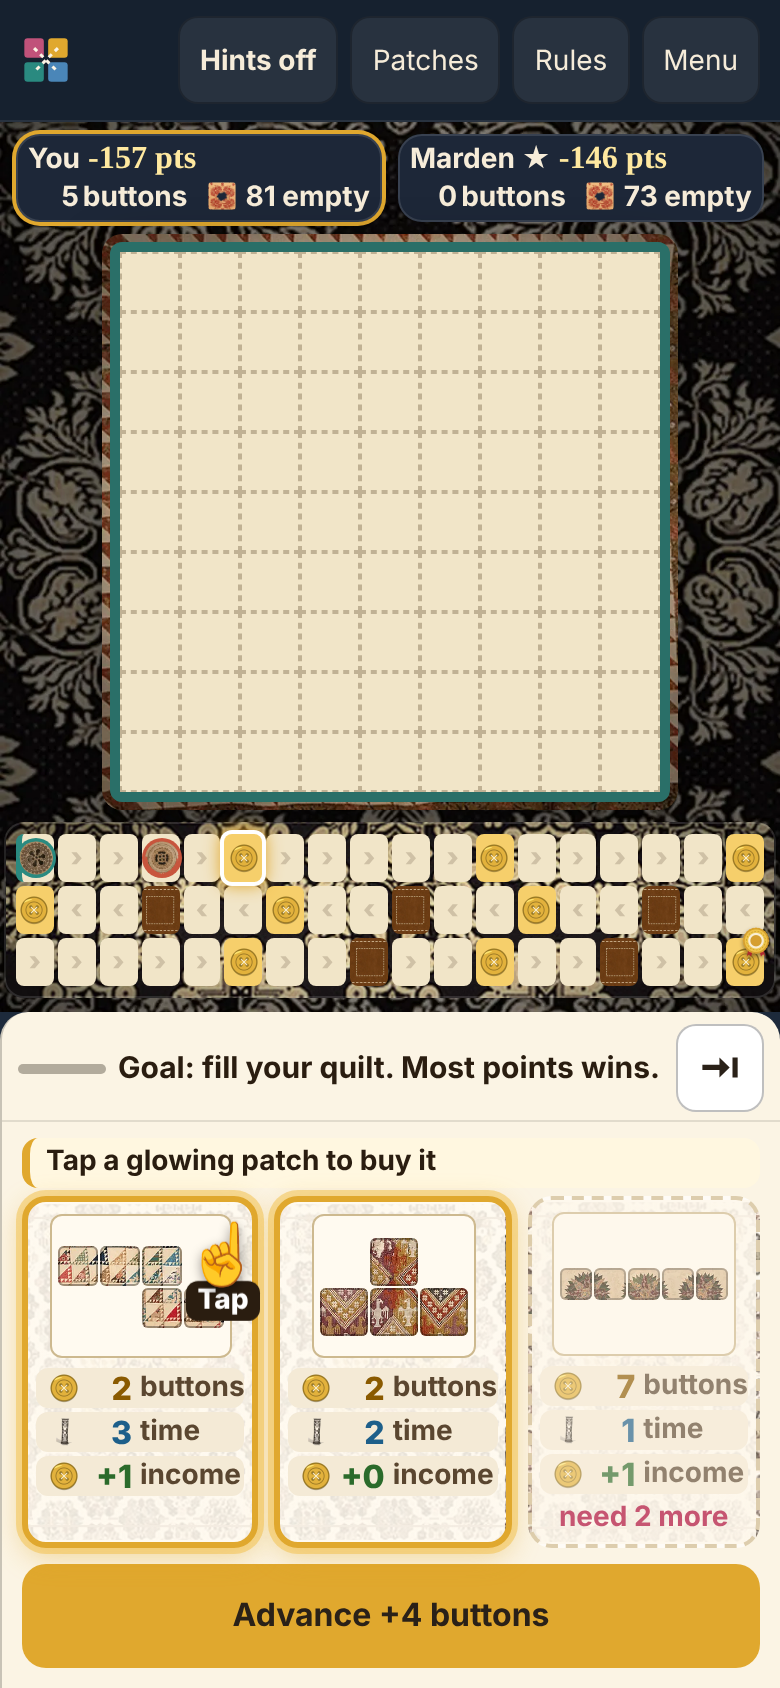
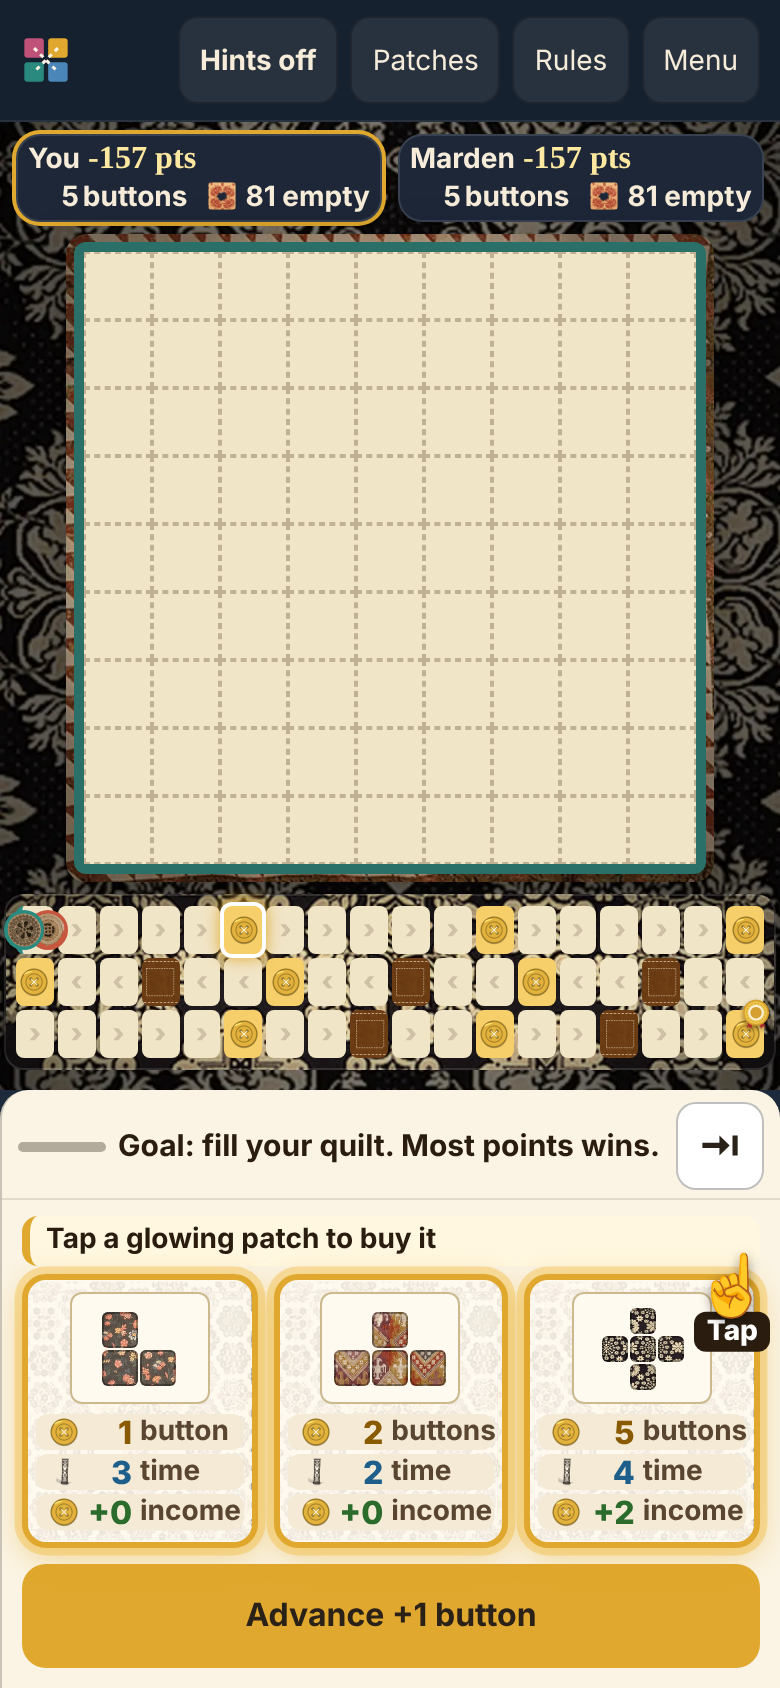
Stitchwise: keep the quilt full size with the bigger patches
Piece box 56px tall (long side still 64px+), the routine prompt hides after
turn 1 on phones, the first-turn hand sits on the card corner where it no
longer covers text.

diff --git a/games-src/stitchwise/src/ui1.js b/games-src/stitchwise/src/ui1.js
@@ -151,13 +151,13 @@ function renderDock() {
     var can = hum && !G.pend && aff && fits, val = hintsOn() && hum && !G.pend && aff && fits ? patchValue(s, pid).net : null;
     var b = h('button.offer' + (UI.sel === k ? '.sel' : '') + (hum && !G.pend && (!aff || !fits) ? '.no.cant' : '') + (!hum ? '.no' : '') + (can && UI.sel < 0 ? '.can' : '') + (UI.sel >= 0 && UI.sel !== k ? '.dim' : ''), { type: 'button', 'data-a': 'offer', 'data-k': k, 'data-why': why, 'aria-label': p.name + ': cost ' + p.cost + ' buttons, time ' + p.time + ', earns ' + p.inc + ' per button spot, ' + p.n + ' squares' });
     if (artHas('ui-offer-card')) { artBg(b, 'ui-offer-card'); b.style.backgroundImage = 'linear-gradient(#fffaf0e6,#fffaf0e6),' + b.style.backgroundImage; b.style.backgroundSize = 'cover'; }
-    if (val != null) b.dataset.val = val; b.appendChild(h('span.onm', p.name)); var bb = bbox(p.cells), sm = document.documentElement.classList.contains('sm'), wd = innerWidth >= 1024; var ph = !sm && !wd && !UI.wide; /* W484: phone portrait: big pieces (box ~100x72, cells up to 26px, tap target is the whole card) */ b.appendChild(patchShape(pid, '', ph ? Math.max(13, Math.min(26, Math.floor(100 / (bb[0] + 1)), Math.floor(72 / (bb[1] + 1)))) : Math.max(9, Math.min(sm ? 12 : wd ? 30 : 18, Math.floor((sm ? 60 : wd ? 170 : 96) / bb[0]), Math.floor((sm ? 44 : wd ? 96 : 40) / bb[1]))))); b.appendChild(h('div.meta.ofx', { html: offerFacts(p) })); box.appendChild(b);
+    if (val != null) b.dataset.val = val; b.appendChild(h('span.onm', p.name)); var bb = bbox(p.cells), sm = document.documentElement.classList.contains('sm'), wd = innerWidth >= 1024; var ph = !sm && !wd && !UI.wide; /* W484: phone portrait: big pieces (box ~100x72, cells up to 26px, tap target is the whole card) */ b.appendChild(patchShape(pid, '', ph ? Math.max(13, Math.min(26, Math.floor(100 / (bb[0] + 1)), Math.floor(54 / (bb[1] + 1)))) : Math.max(9, Math.min(sm ? 12 : wd ? 30 : 18, Math.floor((sm ? 60 : wd ? 170 : 96) / bb[0]), Math.floor((sm ? 44 : wd ? 96 : 40) / bb[1]))))); b.appendChild(h('div.meta.ofx', { html: offerFacts(p) })); box.appendChild(b);
   });
   if (hum && !G.pend && UI.sel < 0 && !G.owned[s].length && !UI.tutorial) { var cans = $$('.offer.can', box); if (cans.length) { var bk = cans.reduce(function (a, c) { return patchValue(s, off[+c.dataset.k]).net > patchValue(s, off[+a.dataset.k]).net ? c : a; }); bk.appendChild(h('span.hand', { 'aria-hidden': 'true' }, h('i', '\u261D\uFE0F'), h('b', 'Tap'))); } } /* W484: a hand on the very first turn */
   var vs = $$('.offer[data-val]', box); if (vs.length) { var bst = vs.reduce(function (a, b) { return +b.dataset.val > +a.dataset.val ? b : a; }); bst.appendChild(h('span.badge', 'Best ' + sgn(+bst.dataset.val))); }
   if (!off.length) box.appendChild(h('div', 'No patches left.'));
   if (G.over) { pr.textContent = 'The fair is over.'; dh.textContent = 'Result'; ac.appendChild(h('button.btn.go', { type: 'button', 'data-a': 'result' }, 'See the result')); return; }
-  dh.textContent = hum && !G.pend && UI.sel >= 0 && !UI.coach ? 'Drag it on your quilt. Red = no room.' : hum && !G.pend && UI.sel < 0 && !UI.coach ? 'Goal: fill your quilt. Most points wins.' : turnTracker(s); /* W484: the goal in plain words on your turn */
+  pr.classList.remove('w484q'); dh.textContent = hum && !G.pend && UI.sel >= 0 && !UI.coach ? 'Drag it on your quilt. Red = no room.' : hum && !G.pend && UI.sel < 0 && !UI.coach ? 'Goal: fill your quilt. Most points wins.' : turnTracker(s); /* W484: the goal in plain words on your turn */
   if (G.pend) { pr.textContent = hum ? 'Free 1×1 patch! Tap any empty square on your quilt' : nameOf(s) + ' sews a free 1×1 patch'; if (hum) { box.style.display = 'none'; dt.textContent = 'You passed a leather space on the track. The 1×1 patch is yours, sew it anywhere.'; } return; }
   box.style.display = '';
   if (!hum) { pr.textContent = UI.cap || (nameOf(s) + ' is thinking…'); return; }
@@ -171,7 +171,7 @@ function renderDock() {
     ac.appendChild(h('button.btn.alt.sm', { type: 'button', 'data-a': 'cancel', 'aria-label': 'Cancel' }, 'Cancel'));
   } else {
     var nCan = off.filter(function (pid) { var q = PATCHES[pid]; return G.btn[s] >= q.cost && swPlacements(G.board[s], q).length > 0; }).length;
-    pr.textContent = !nCan ? 'No patch you can buy: tap Advance' : !G.owned[s].length ? 'Tap a glowing patch to buy it' : UI.again ? UI.again : 'Tap a glowing patch, or tap Advance';
+    pr.textContent = !nCan ? 'No patch you can buy: tap Advance' : !G.owned[s].length ? 'Tap a glowing patch to buy it' : UI.again ? UI.again : 'Tap a glowing patch, or tap Advance'; pr.classList.toggle('w484q', !!nCan && !!G.owned[s].length && !UI.again && !UI.coach && !UI.wide); /* W484: phone hides the routine line after turn 1 (the glow says it) */
     var st = swAdvSteps(G, s), o = nameOf(1 - s);
     ac.appendChild(h('button.btn.adv.grow', { type: 'button', 'data-a': 'adv', title: 'Move your token just ahead of ' + o + ' and take ' + st + ' button' + (st === 1 ? '' : 's') }, 'Advance +' + st + ' button' + (st === 1 ? '' : 's')));
     dt.textContent = hintsOn() && (UI.wide || !UI.camp) ? UI.rate || trackInfo() : '';

diff --git a/games-src/stitchwise/src/head.html b/games-src/stitchwise/src/head.html
@@ -346,12 +346,12 @@ html.sm .gx-dock-body{padding-bottom:calc(12px + env(safe-area-inset-bottom,0px)
 /* W484: phone portrait clarity: big pieces, no name row, hand on turn 1, big action buttons */
 @media (max-width:600px) and (orientation:portrait){html:not(.sm) .offer .onm{display:none}
 html:not(.sm) .offer{min-height:0;padding:6px 4px!important;gap:5px!important}
-html:not(.sm) .offer .shape{min-width:64px;min-height:64px;align-content:center;justify-content:center;margin:0}
+html:not(.sm) .offer .shape{min-width:64px;min-height:50px;padding:3px!important;align-content:center;justify-content:center;margin:0}
 html:not(.sm) .offer .ofx{grid-template-columns:1fr!important;gap:2px!important}
-html:not(.sm) .offer .of{justify-content:flex-start!important;padding:2px 6px!important}
+html:not(.sm) .offer .of{justify-content:flex-start!important;padding:1px 6px!important}html:not(.sm) #prompt.w484q{display:none!important}
 html:not(.sm) #acts .btn{min-height:52px;font-size:16px;white-space:nowrap}html:not(.sm) #acts .btn.sm{padding-left:9px;padding-right:9px}html:not(.sm) #acts .btn.go{font-size:18px}
 html:not(.sm) .gx-dock-head .gx-dt{font-size:15px!important;color:#2a1d10}}
-.offer .hand{position:absolute;right:-4px;top:18px;z-index:3;display:flex;flex-direction:column;align-items:center;pointer-events:none;animation:handb 1s ease-in-out infinite}
+.offer .hand{position:absolute;right:-8px;top:-12px;z-index:5;display:flex;flex-direction:column;align-items:center;animation:handb 1s ease-in-out infinite}
 .offer .hand i{font-style:normal;font-size:30px;line-height:1;filter:drop-shadow(0 2px 3px #0006)}
 .offer .hand b{font-size:14px;font-weight:800;background:#2a1d10;color:#fff;border-radius:6px;padding:0 6px;margin-top:-2px}
 @keyframes handb{50%{transform:translateY(-8px)}}
